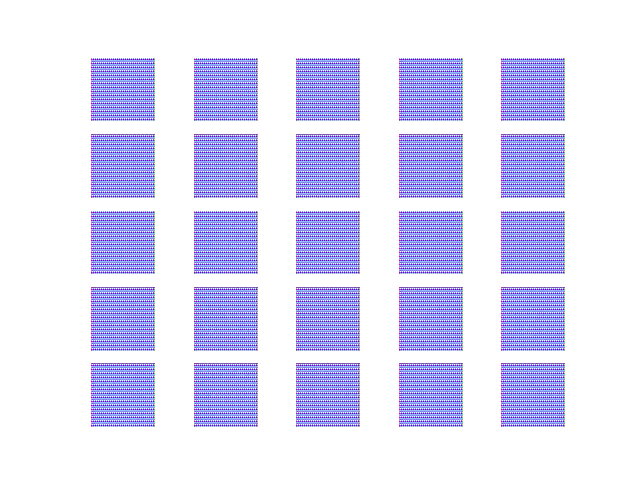
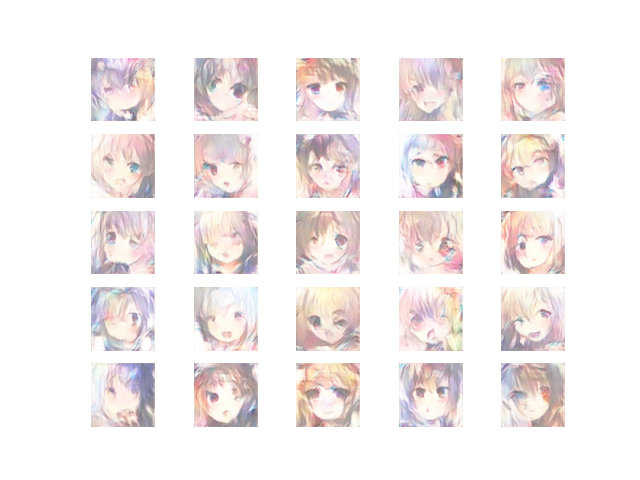
hw3

diff --git a/hw3/hw3-1/inference.py b/hw3/hw3-1/inference.py
@@ -28,32 +28,37 @@ BATCHSIZE = 512
 class Generator(nn.Module):
     def __init__(self):
         super(Generator, self).__init__()
-        self.to_2d = nn.Linear(100, 128*16*16)
-        self.conv_layers = nn.Sequential(nn.ConvTranspose2d(128, 
+        self.to_2d = nn.Sequential(nn.Linear(100,256*16*16),
+                                   )
+        self.conv_layers = nn.Sequential(nn.BatchNorm2d(256),
+                                         nn.LeakyReLU(),
+                                         nn.ConvTranspose2d(256, 
                                                             128, 
                                                             kernel_size=4, 
                                                             stride=2, 
                                                             padding=1,
                                                             ), #128 * 32 * 32
-                                        nn.ReLU(),
+                                        nn.BatchNorm2d(128),
+                                        nn.LeakyReLU(),
                                         nn.ConvTranspose2d(128,
                                                            64,
                                                            kernel_size=4,
                                                            stride=2,
                                                            padding=1,
                                                            ), #64 * 64 * 64
-                                        nn.ReLU(),
+                                        nn.BatchNorm2d(64),
+                                        nn.LeakyReLU(),
                                         nn.ConvTranspose2d(64,
                                                            3,
                                                            kernel_size=3,
                                                            stride=1,
                                                            padding=1,
-                                                           ), #64 * 3 * 3
+                                                           ), #3 * 64 * 64
                                         nn.Tanh(),
                                         )
     def forward(self, x):
         x = self.to_2d(x)
-        x = x.view(-1, 128, 16, 16)
+        x = x.view(-1, 256, 16, 16)
         x = self.conv_layers(x)
         return x
     
@@ -71,30 +76,40 @@ class Discriminator(nn.Module):
                                                    kernel_size=4,
                                                    padding=0,
                                                    ), #32 * 61 * 61
-                                        nn.ReLU(),
+                                        #nn.BatchNorm2d(32),
+                                        nn.LeakyReLU(),
+                                        nn.Dropout(0.7),
                                         nn.Conv2d(32,
                                                   64,
                                                   kernel_size=4,
                                                   padding=1,
                                                   ), #64 * 60 * 60
-                                        nn.ReLU(),
+                                        #nn.BatchNorm2d(64),
+                                        nn.LeakyReLU(),
+                                        nn.Dropout(0.7),
                                         nn.Conv2d(64,
                                                   128,
                                                   kernel_size=4,
+                                                  padding=0,
                                                   ), #128 * 57 * 57
-                                        nn.ReLU(),
+                                        #nn.BatchNorm2d(128),
+                                        nn.LeakyReLU(),
+                                        nn.Dropout(0.7),
                                         nn.Conv2d(128,
                                                   256,
                                                   kernel_size=4,
+                                                  padding=0,
                                                   ), #256 * 54 * 54
-                                        nn.ReLU(),
+                                        #nn.BatchNorm2d(256),
+                                        nn.LeakyReLU(),
+                                        nn.Dropout(0.7),
                                         )
         self.to_out = nn.Sequential(nn.Linear(256*54*54, 1),
                                     nn.Sigmoid(),
                                     )
     def forward(self, x):
         x = self.conv_layers(x)
-        x = x.view(-1)
+        x = x.view(-1, 256*54*54)
         x = self.to_out(x)
         return x
    
@@ -112,15 +127,15 @@ def main(args):
     ------//
     """
     
-    test_generator = torch.load(args.model_directory + args.model_name + '_epoch_' + '1' + '_generator.pkl').eval().cuda()
     #test_discriminator = torch.load(args.model_directory + args.model_name + '_epoch_' + args.epoch + '_discriminator.pkl').cuda()
 
     noise_distribution = torch.distributions.Normal(torch.Tensor([0.0]), torch.Tensor([1.0]))
+    sample_noise = noise_distribution.sample((25, 100)).squeeze(2).cuda()
     
     print('Testing starts...')
 
-    for e in tqdm(range(1)):
-        sample_noise = noise_distribution.sample((25, 100)).squeeze(2).cuda()
+    for e in tqdm(range(args.epoch)):
+        test_generator = torch.load(args.model_directory + args.model_name + '_epoch_' + str(e+1) + '_generator.pkl').eval().cuda()
         generated_waifu = test_generator(sample_noise)
         
         """
@@ -139,7 +154,7 @@ def main(args):
                 axs[i,j].imshow(generated_waifu[cnt, :,:,:])
                 axs[i,j].axis('off')
                 cnt += 1
-        fig.savefig("./generated/" + args.model_name +".png")
+        fig.savefig("./generated/" + args.model_name + '_' + str(e+1) + ".png")
         plt.close()
         
         
@@ -151,7 +166,7 @@ if __name__ == "__main__":
     #parser.add_argument('--data_directory', '-dd', type=str, default='../../../../MLDS_dataset/hw3-1/AnimeDataset/faces/')
     parser.add_argument('--model_name', '-mn', type=str, default='NSGAN')
     parser.add_argument('--model_directory', '-md', type=str, default='../../../MLDS_models/hw3-1/')
-    parser.add_argument('--epoch', '-e', type=int, default=50)
+    parser.add_argument('--epoch', '-e', type=int, default=28)
     #parser.add_argument('--k', '-k', type=int, default=3)
     args = parser.parse_args()
     main(args)         

diff --git a/hw3/hw3-1/Model.py b/hw3/hw3-1/Model.py
@@ -24,6 +24,7 @@ ConvTranspose2d:
 """
 
 ADAMPARAM = {'lr':0.0002, 'betas':(0.5, 0.999), 'eps':1e-5}
+ADAMPARAM2= {'lr':0.0001, 'betas':(0.5, 0.999), 'eps':1e-5}
 SGDPARAM  = {'lr':0.0002, 'momentum':0.9}
 BATCHSIZE = 64
 WGANCLIP  = 0.01
@@ -31,11 +32,11 @@ WGANCLIP  = 0.01
 class Generator(nn.Module):
     def __init__(self):
         super(Generator, self).__init__()
-        self.to_2d = nn.Sequential(nn.Linear(100,128*16*16),
+        self.to_2d = nn.Sequential(nn.Linear(100,256*16*16),
                                    )
-        self.conv_layers = nn.Sequential(nn.BatchNorm2d(128),
+        self.conv_layers = nn.Sequential(nn.BatchNorm2d(256),
                                          nn.LeakyReLU(),
-                                         nn.ConvTranspose2d(128, 
+                                         nn.ConvTranspose2d(256, 
                                                             128, 
                                                             kernel_size=4, 
                                                             stride=2, 
@@ -61,7 +62,7 @@ class Generator(nn.Module):
                                         )
     def forward(self, x):
         x = self.to_2d(x)
-        x = x.view(-1, 128, 16, 16)
+        x = x.view(-1, 256, 16, 16)
         x = self.conv_layers(x)
         return x
     
@@ -81,7 +82,7 @@ class Discriminator(nn.Module):
                                                    ), #32 * 61 * 61
                                         #nn.BatchNorm2d(32),
                                         nn.LeakyReLU(),
-                                        #nn.Dropout(0.5),
+                                        nn.Dropout(0.7),
                                         nn.Conv2d(32,
                                                   64,
                                                   kernel_size=4,
@@ -89,7 +90,7 @@ class Discriminator(nn.Module):
                                                   ), #64 * 60 * 60
                                         #nn.BatchNorm2d(64),
                                         nn.LeakyReLU(),
-                                        #nn.Dropout(0.5),
+                                        nn.Dropout(0.7),
                                         nn.Conv2d(64,
                                                   128,
                                                   kernel_size=4,
@@ -97,7 +98,7 @@ class Discriminator(nn.Module):
                                                   ), #128 * 57 * 57
                                         #nn.BatchNorm2d(128),
                                         nn.LeakyReLU(),
-                                        #nn.Dropout(0.5),
+                                        nn.Dropout(0.7),
                                         nn.Conv2d(128,
                                                   256,
                                                   kernel_size=4,
@@ -105,7 +106,7 @@ class Discriminator(nn.Module):
                                                   ), #256 * 54 * 54
                                         #nn.BatchNorm2d(256),
                                         nn.LeakyReLU(),
-                                        #nn.Dropout(0.5),
+                                        nn.Dropout(0.7),
                                         )
         self.to_out = nn.Sequential(nn.Linear(256*54*54, 1),
                                     nn.Sigmoid(),
@@ -158,7 +159,7 @@ def main(args):
     train_discriminator = Discriminator().cuda()
     
     optimizer_g = torch.optim.Adam(train_generator.parameters(), **ADAMPARAM)
-    optimizer_d = torch.optim.Adam(train_discriminator.parameters(), **ADAMPARAM)
+    optimizer_d = torch.optim.Adam(train_discriminator.parameters(), **ADAMPARAM2)
     
     loss_func_g = criterion_g
     loss_func_d = criterion_d
@@ -227,7 +228,7 @@ def main(args):
             torch.save(optimizer_g, args.model_directory + args.model_name + '_epoch_' + str(e+1) + '_generator.optim')
             torch.save(train_discriminator, args.model_directory + args.model_name + '_epoch_' + str(e+1) + '_discriminator.pkl')
             torch.save(optimizer_d, args.model_directory + args.model_name + '_epoch_' + str(e+1) + '_discriminator.optim')
-            print('batch: ', b_num, '/', total_batch, ' Discriminator Loss: ', epoch_dloss-old_dloss, ' Generator Loss: ', epoch_gloss-old_gloss, end='\r')
+            print('batch: ', b_num, '/', total_batch, ' Discriminator Loss: ', (epoch_dloss-old_dloss)/args.k, ' Generator Loss: ', epoch_gloss-old_gloss, end='\r')
             old_dloss, old_gloss = epoch_dloss, epoch_gloss
         
         dloss_record.append(epoch_dloss)
